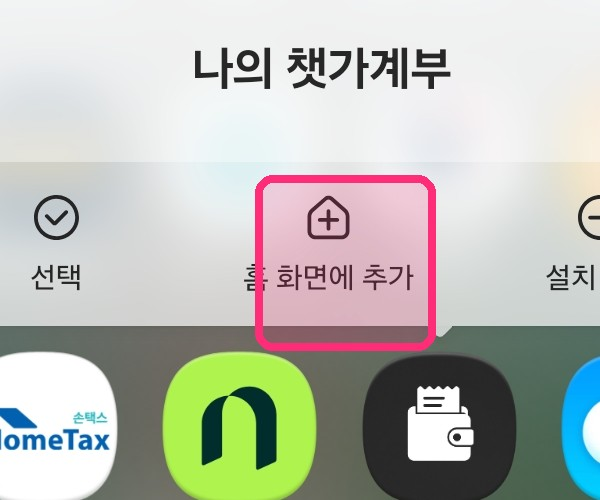
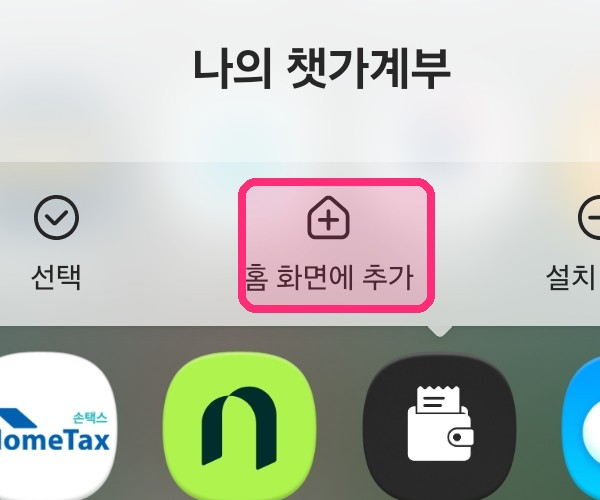
8단계 홈 화면에 추가 분홍 강조를 아이콘·글자에 맞춥니다.

Changed region(s): [[0.39, 0.33, 0.75, 0.72]]

diff --git a/components/InstallHelp.tsx b/components/InstallHelp.tsx
@@ -6,7 +6,7 @@ type InstallHelpProps = {
 };
 
 /** 캐시 때문에 예전 사진이 안 바뀌는 것 방지 */
-const IMG_V = "20261122g";
+const IMG_V = "20261122h";
 
 const CHROME_STEPS: { src: string; caption: string }[] = [
   {
@@ -102,7 +102,7 @@ export function InstallHelp({ open, onClose }: InstallHelpProps) {
                   <img
                     src={step.src}
                     alt={step.caption}
-                    className="h-auto w-full rounded-2xl border border-black/5 bg-[#f5f5f7] object-cover object-top"
+                    className="h-auto w-full rounded-2xl border border-black/5 bg-[#f5f5f7]"
                   />
                 </li>
               ))}

diff --git a/scripts/make_install_guide_highlights.py b/scripts/make_install_guide_highlights.py
@@ -95,12 +95,12 @@ JOBS: list[
         (560, 700, 920, 1060),
         (72, 42, 275, 255),
     ),
-    # 8 홈 화면에 추가 글자 ~278-408,270 + 아이콘
+    # 8 홈 화면에 추가: 아이콘 282-408,196-269 + 글자 244-412,265-289
     (
         "KakaoTalk_20261122_114259032_07.jpg",
         "step-08.jpg",
         (300, 400, 900, 900),
-        (255, 175, 435, 350),
+        (238, 178, 434, 312),
     ),
 ]
 
